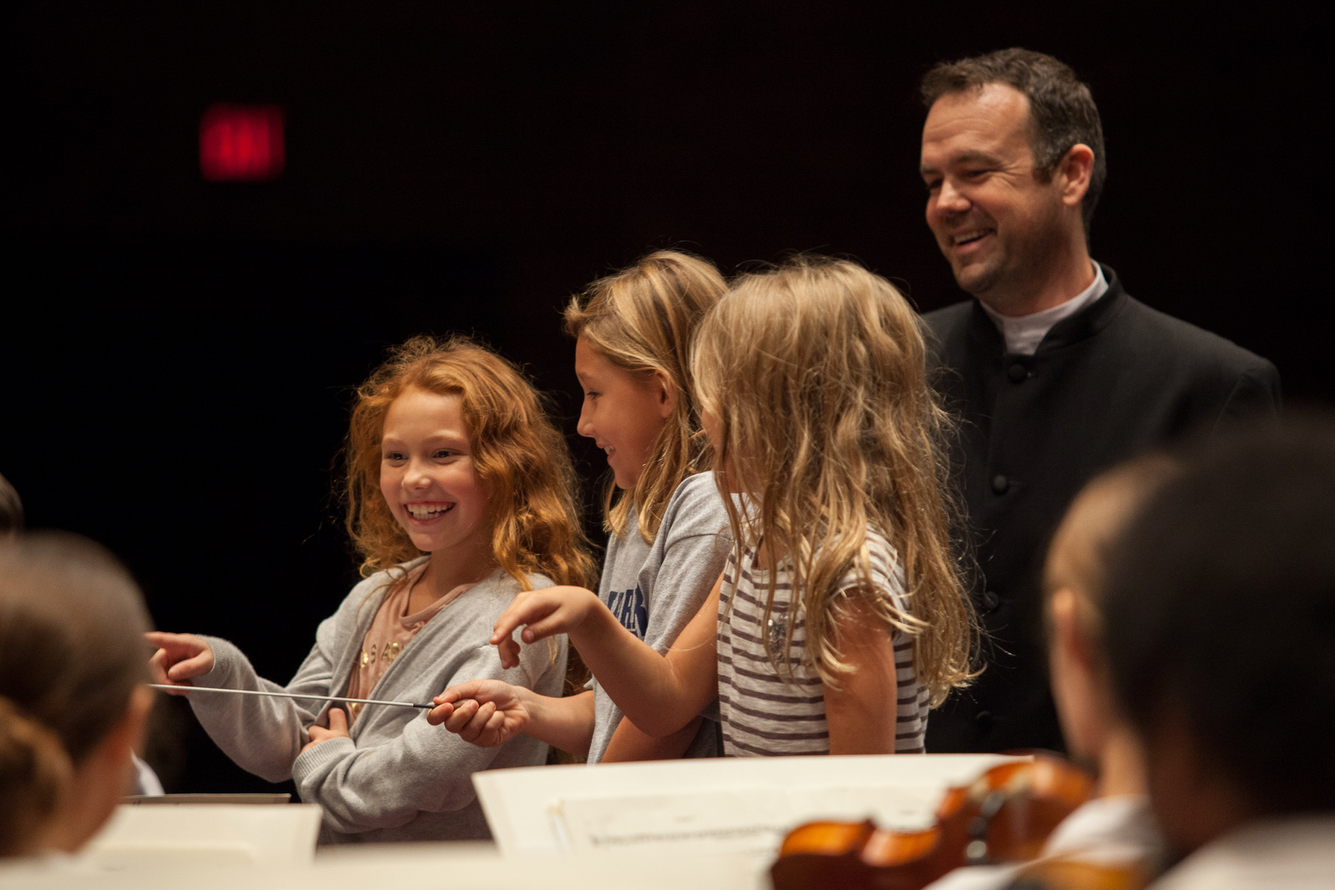
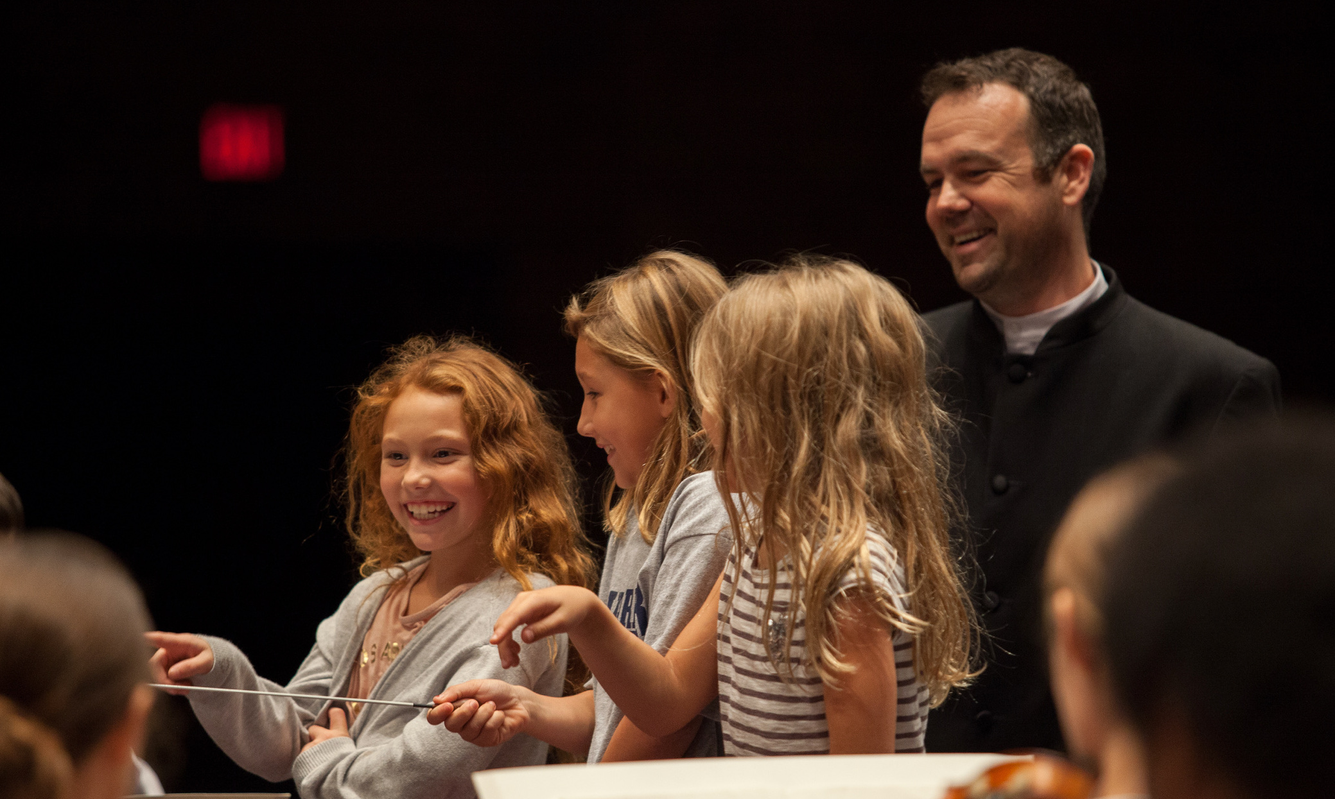
Add build target, ect.
- Adds a build target
- Fixes broken LinkedIn link
- Crops JSO education image

diff --git a/_includes/footer.html b/_includes/footer.html
@@ -16,7 +16,7 @@
                         </a>
                     </div>
                     <div class="footer-icon">
-                        <a href="#">
+                        <a href="https://www.linkedin.com/in/matthew-aubin-a38b1326">
                             <i class="fa fa-linkedin" aria-hidden="true"></i>
                         </a>
                     </div>

diff --git a/_includes/head.html b/_includes/head.html
@@ -1,5 +1,6 @@
 <head>
   <title>Matthew Aubin</title>
+  <meta charset="utf-8">
   <meta name="viewport" content="width=device-width, initial-scale=1">
   <meta name="description" content="Official site of the American conductor and hornist Matthew Welz Aubin, Conductor">
   <link rel="stylesheet" type="text/css" href="/css/styles.css">
